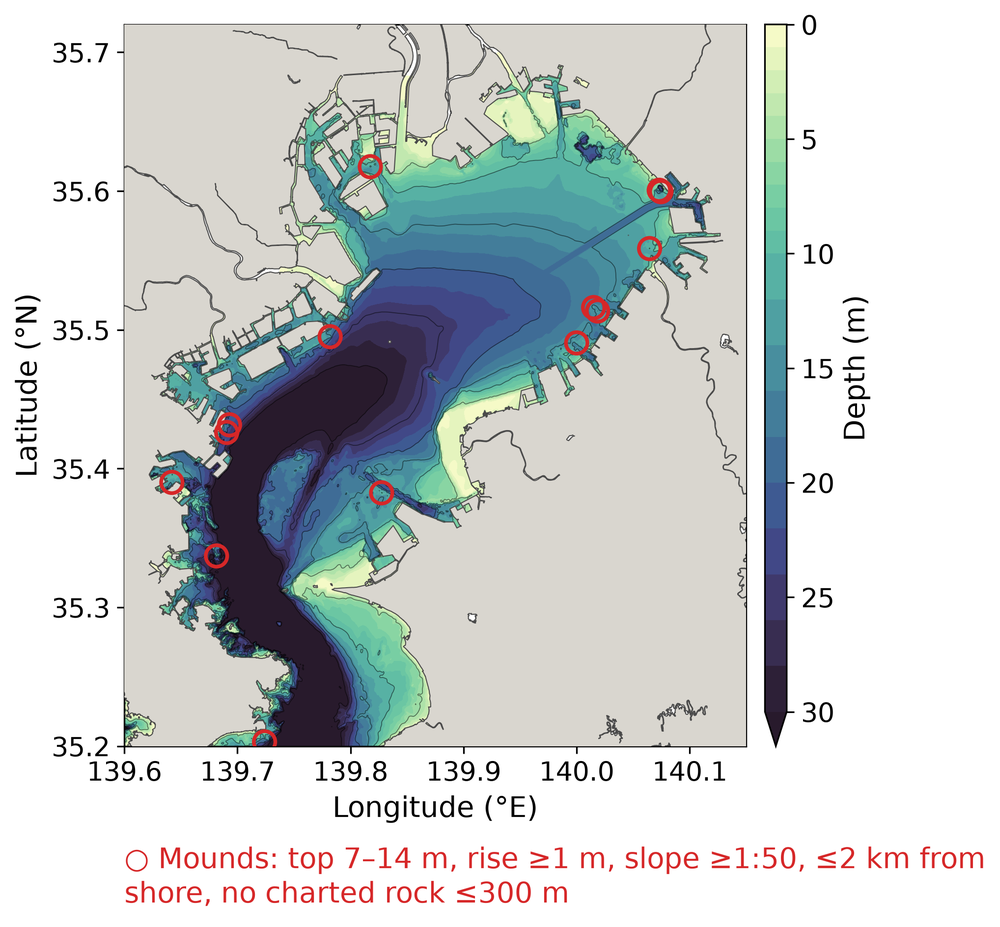
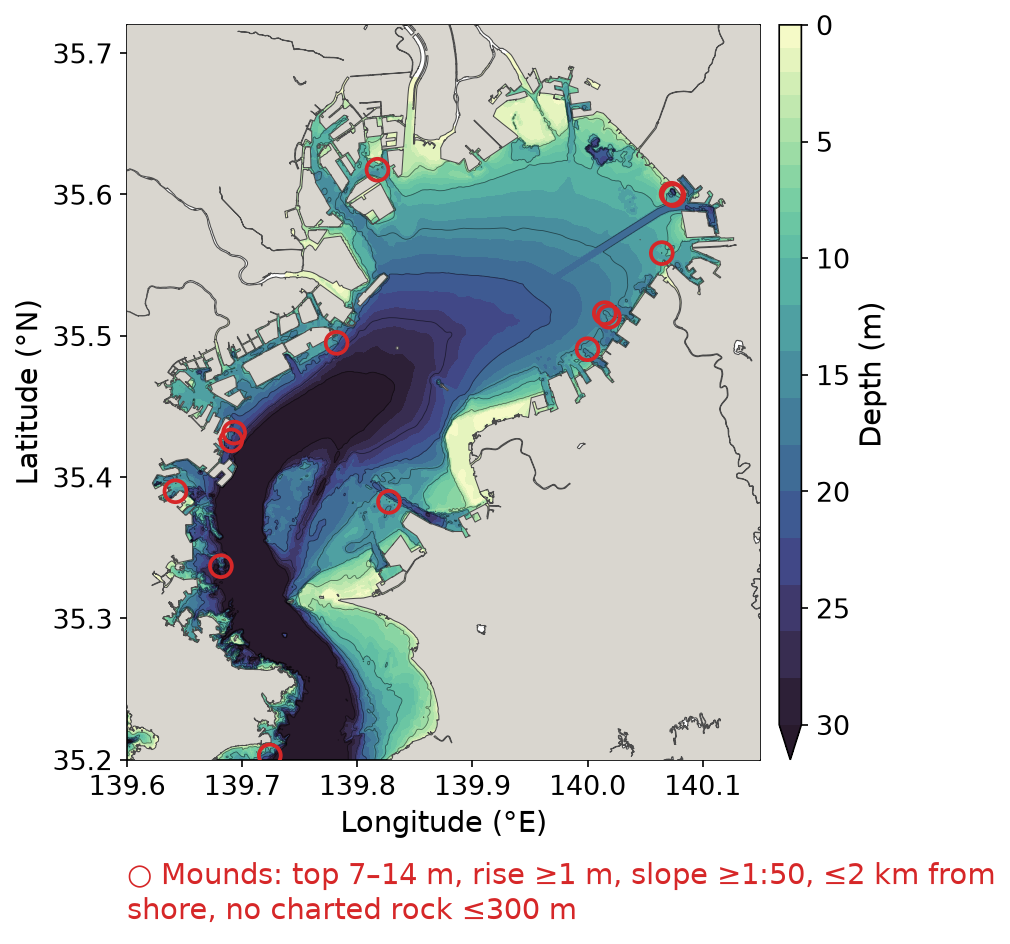
Figures from the Futtsu-merged DEM; Futtsu before/after/change close-up
The Tokyo Bay maps (plain, Boso frame, mounds) are redrawn from the default
50 m DEM (M7001 + Chiba channel + Futtsu) at 150 dpi (~1000 px); mounds are
unchanged (14). plot_dem_compare.py draws before | after | change of two DEMs;
futtsu_merge_compare.png (1320 px) shows the merge and is cited in
docs/dem.md. docs/mounds.md names the DEM it now uses.

Claude-Session: https://claude.ai/code/session_01MhU6iDzaQKBG9cKa3nrSvL

diff --git a/scripts/plot_dem_compare.py b/scripts/plot_dem_compare.py
@@ -1,0 +1,98 @@
+#!/usr/bin/env python3
+"""Side-by-side close-up of two DEMs and their difference (before | after | after - before).
+
+Depth panels use the same cmocean colours and steps; the difference panel is diverging,
+symmetric about zero (negative = deeper after). OSM land via xcoast on every panel.
+
+    python scripts/plot_dem_compare.py --before A.nc --after B.nc \
+        --region 139.770 139.830 35.300 35.340 --vmax 6 --step 0.5 --out docs/figures/x.png
+"""
+
+from __future__ import annotations
+
+import argparse
+from pathlib import Path
+
+import numpy as np
+import xarray as xr
+
+from topobathy.plot.depthmap import land_mask
+
+
+def load(path: Path, region) -> xr.DataArray:
+    w, e, s, n = region
+    da = xr.open_dataset(path)["elevation"].sortby("lat").sortby("lon")
+    return da.sel(lon=slice(w, e), lat=slice(s, n)).astype("float64")
+
+
+def main() -> int:
+    ap = argparse.ArgumentParser(description=__doc__,
+                                 formatter_class=argparse.RawDescriptionHelpFormatter)
+    ap.add_argument("--before", type=Path, required=True)
+    ap.add_argument("--after", type=Path, required=True)
+    ap.add_argument("--labels", nargs=2, default=("Before", "After"))
+    ap.add_argument("--region", type=float, nargs=4, metavar=("W", "E", "S", "N"), required=True)
+    ap.add_argument("--vmax", type=float, default=6.0)
+    ap.add_argument("--step", type=float, default=0.5)
+    ap.add_argument("--dlim", type=float, default=None, help="difference colour limit (m)")
+    ap.add_argument("--box", type=float, nargs=4, default=None, metavar=("W", "E", "S", "N"))
+    ap.add_argument("--dpi", type=int, default=110)
+    ap.add_argument("--out", type=Path, required=True)
+    args = ap.parse_args()
+
+    import cmocean
+    import matplotlib
+    matplotlib.use("Agg")
+    import matplotlib.pyplot as plt
+    from matplotlib.patches import Rectangle
+    from matplotlib.ticker import MaxNLocator
+
+    w, e, s, n = args.region
+    a = load(args.before, args.region)
+    b = load(args.after, args.region)
+    diff = (b - a).where(np.abs(b - a) > 1e-4)
+    lim = args.dlim or float(np.ceil(np.nanpercentile(np.abs(diff), 98) * 2) / 2)
+    levels = np.arange(0.0, args.vmax + args.step / 2, args.step)
+    dlev = np.linspace(-lim, lim, 13)
+    land = land_mask(args.region)
+    aspect = 1.0 / np.cos(np.radians((s + n) / 2))
+
+    fig, axes = plt.subplots(1, 3, figsize=(12.0, 3.9), constrained_layout=True)
+    for ax, da, title in ((axes[0], a, args.labels[0]), (axes[1], b, args.labels[1])):
+        cf = ax.contourf(da.lon, da.lat, (-da).clip(min=0), levels=levels, cmap=cmocean.cm.deep,
+                         extend="max")
+        ax.set_title(title, loc="left", fontsize=12)
+    cd = axes[2].contourf(diff.lon, diff.lat, diff, levels=dlev, cmap="RdBu", extend="both")
+    axes[2].set_title("Change (after − before)", loc="left", fontsize=12)
+    for ax in axes:
+        land.add_to_plain_mpl(ax, facecolor="#d9d6cf", edgecolor="#4a4a4a", linewidth=0.5,
+                              zorder=5)
+        if args.box:
+            bw, be, bs, bn = args.box
+            ax.add_patch(Rectangle((bw, bs), be - bw, bn - bs, fill=False, edgecolor="#d62728",
+                                   linewidth=1.2, zorder=10))
+        ax.set_xlim(w, e)
+        ax.set_ylim(s, n)
+        ax.set_aspect(aspect)
+        ax.ticklabel_format(useOffset=False, style="plain")
+        ax.tick_params(labelsize=9)
+        ax.xaxis.set_major_locator(MaxNLocator(4))
+        ax.set_xlabel("Longitude (°E)", fontsize=10)
+    axes[0].set_ylabel("Latitude (°N)", fontsize=10)
+    for ax in axes[1:]:
+        ax.set_yticklabels([])
+    cb = fig.colorbar(cf, ax=axes[:2], shrink=0.85, pad=0.01,
+                      ticks=np.arange(0, args.vmax + 0.1, 1))
+    cb.set_label("Depth (m)", fontsize=10)
+    cb.ax.invert_yaxis()
+    cb2 = fig.colorbar(cd, ax=axes[2], shrink=0.85, pad=0.02)
+    cb2.set_label("Elevation change (m)\n(negative = deeper)", fontsize=10)
+    args.out.parent.mkdir(parents=True, exist_ok=True)
+    fig.savefig(args.out, dpi=args.dpi)
+    print(f"wrote {args.out}; changed cells {int(np.isfinite(diff).sum())}, "
+          f"change {np.nanmin(diff):+.2f} to {np.nanmax(diff):+.2f} m")
+    return 0
+
+
+if __name__ == "__main__":
+    raise SystemExit(main())

diff --git a/docs/dem.md b/docs/dem.md
@@ -179,12 +179,19 @@ checks above it was renamed to the default name and the M7001-only grid to
 `M7001_dem_tokyobay_50m_m7001_only.nc`. To rebuild: `pjsub scripts/genkai_futtsu_jfa_merge.sh`,
 check, then rename the same way.
 
-Before / after ([`figures/futtsu_merge_before.png`](figures/futtsu_merge_before.png),
-[`figures/futtsu_merge_after.png`](figures/futtsu_merge_after.png); red box = survey
-footprint) and the difference
-([`figures/futtsu_merge_diff.png`](figures/futtsu_merge_diff.png)):
+Before | after | change, red box = survey footprint
+([`scripts/genkai_plot_futtsu_compare.sh`](../scripts/genkai_plot_futtsu_compare.sh)):
 
-![Futtsu after the merge](figures/futtsu_merge_after.png)
+![Futtsu before and after the merge, and the change](figures/futtsu_merge_compare.png)
+
+Single maps at full size: [`figures/futtsu_merge_before.png`](figures/futtsu_merge_before.png),
+[`figures/futtsu_merge_after.png`](figures/futtsu_merge_after.png),
+[`figures/futtsu_merge_diff.png`](figures/futtsu_merge_diff.png).
+
+**Figures drawn from the default DEM** (redrawn 2026-10-24 at 150 dpi, ≈ 1000 px wide):
+`figures/tokyobay_depth_tp_chiba_channel.png`, `..._boso_box.png` and `..._mounds.png`
+(the file names keep `chiba_channel` from before the Futtsu merge; the content is the
+default DEM). The inner-bay and Boso close-up maps do not reach Futtsu and were not redrawn.
 
 ## Notes & refinements
 

diff --git a/docs/mounds.md b/docs/mounds.md
@@ -18,8 +18,8 @@ an argument; nothing is specific to Tokyo Bay.
 *Figure 1. Seabed mounds (red circles) on the T.P. depth map of Tokyo Bay, 139.60–140.15 E,
 35.20–35.72 N: summit 7–14 m deep, ≥ 1 m above the surrounding seabed, ≤ 2 km from
 shore, mean upper-flank slope ≥ 1:50, no charted rock within 300 m; Umi-hotaru excluded.
-14 mounds. Depth: M7001 50 m DEM (JHA, converted to T.P.) with the Chiba channel
-corrected. Full resolution: [`figures/tokyobay_depth_tp_chiba_channel_mounds.png`](figures/tokyobay_depth_tp_chiba_channel_mounds.png).*
+14 mounds. Depth: the 50 m Tokyo Bay DEM `M7001_dem_tokyobay_50m.nc` (M7001 converted to
+T.P., Chiba channel corrected, Futtsu 2022 survey merged; see [`dem.md`](dem.md)). Full resolution: [`figures/tokyobay_depth_tp_chiba_channel_mounds.png`](figures/tokyobay_depth_tp_chiba_channel_mounds.png).*
 
 ## Method
 
@@ -91,7 +91,7 @@ Map with marked mounds (GENKAI: run through the job scripts above, `pjsub`):
 
 ```bash
 python scripts/plot_depth_map.py \
-    --dem $DATA_DIR/geodata/bathymetry/M7001/TP/M7001_dem_tokyobay_50m_chiba_channel.nc \
+    --dem $DATA_DIR/geodata/bathymetry/M7001/TP/M7001_dem_tokyobay_50m.nc \
     --region 139.60 140.15 35.20 35.72 --vmax 30 \
     --mounds --mound-depth 7 14 --mound-prominence 1 --mound-shore-dist 2000 \
     --mound-min-slope 0.02 \
